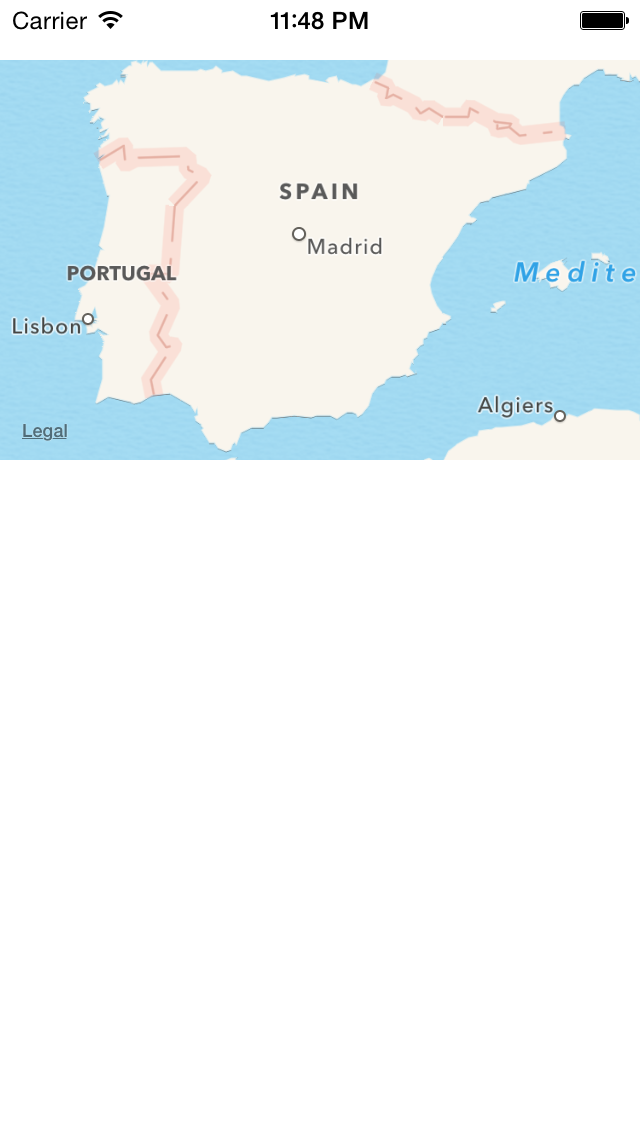
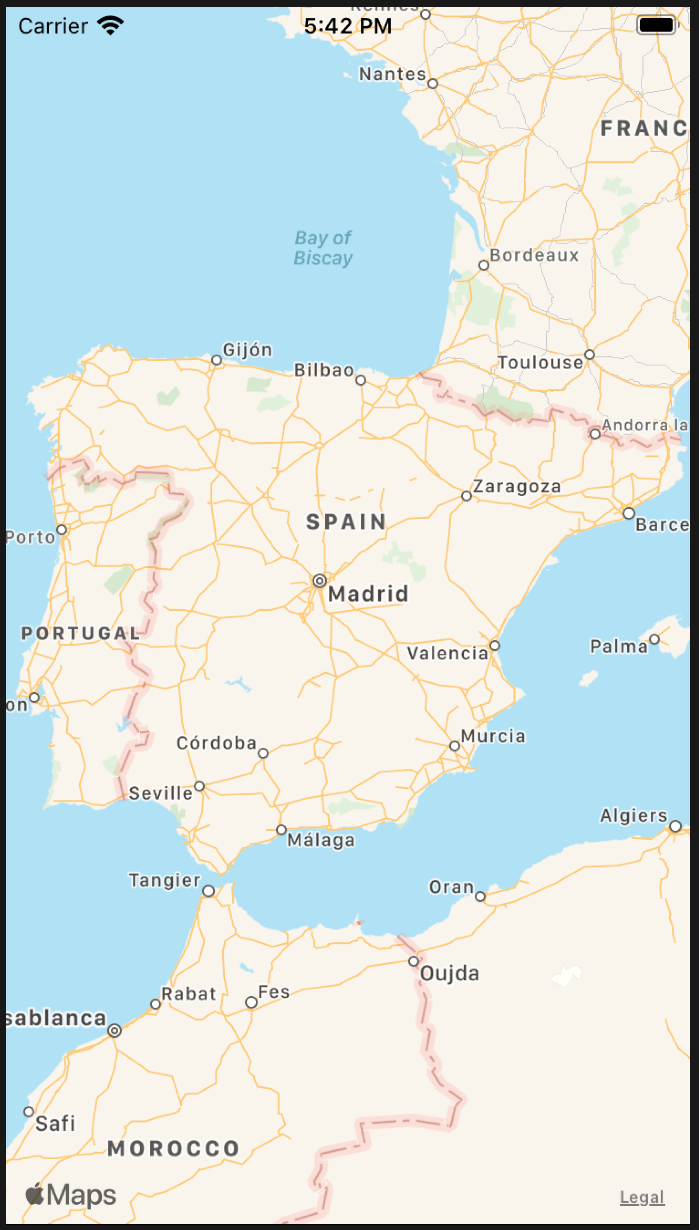
Actualizadas imágenes

diff --git a/docs/teoria/mapas-localizacion/mapas-localizacion.md b/docs/teoria/mapas-localizacion/mapas-localizacion.md
@@ -144,13 +144,11 @@ class ViewController: UIViewController, MKMapViewDelegate {
     override func viewDidLoad() {
         super.viewDidLoad()
         let map = MKMapView(frame:
-            CGRect(x: 0, y: 30, width: self.view.frame.width, height: 200))
+                                CGRect(x: 0, y: 0,
+                                       width: self.view.frame.width,
+                                       height: self.view.frame.height))
         self.view.addSubview(map)
         map.delegate = self
-    }
-
-    override func didReceiveMemoryWarning() {
-        super.didReceiveMemoryWarning()
     }
 }
 ```
@@ -183,21 +181,19 @@ class ViewController: UIViewController, MKMapViewDelegate  {
             let alicanteLocation = 
                 CLLocationCoordinate2D(latitude: 38.3453, 
                                        longitude: -0.4831)
-            let initialLocation = 
-                CLLocation(latitude: alicanteLocation.latitude,
-                           longitude: alicanteLocation.longitude)
-            centerMapOnLocation(mapView: mapView, loc: initialLocation)
+            centerMapOnLocation(mapView: mapView, loc: alicanteLocation)
         }
     }
 
-    func centerMapOnLocation(mapView: MKMapView, loc: CLLocation) {
-        let regionRadius: CLLocationDistance = 1000
-        let coordinateRegion = 
-            MKCoordinateRegionMakeWithDistance(loc.coordinate,
-                           regionRadius * 4.0, regionRadius * 4.0)
+    func centerMapOnLocation(mapView: MKMapView, loc: CLLocationCoordinate2D) {
+        let regionRadius: CLLocationDistance = 4000
+        let coordinateRegion =
+            MKCoordinateRegion(center: loc,
+                               latitudinalMeters: regionRadius,
+                               longitudinalMeters: regionRadius)
         mapView.setRegion(coordinateRegion, animated: true)
     }
-    
+
     ...
 }
 ```
